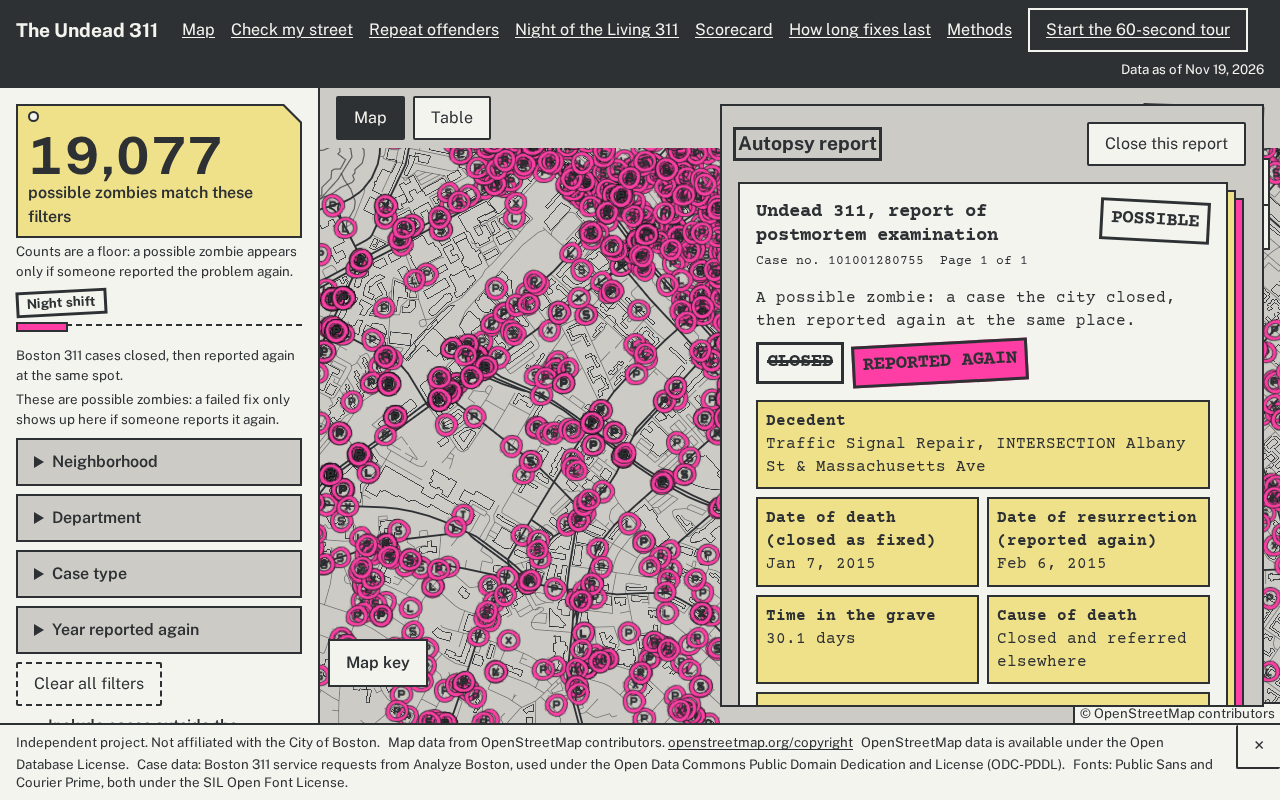
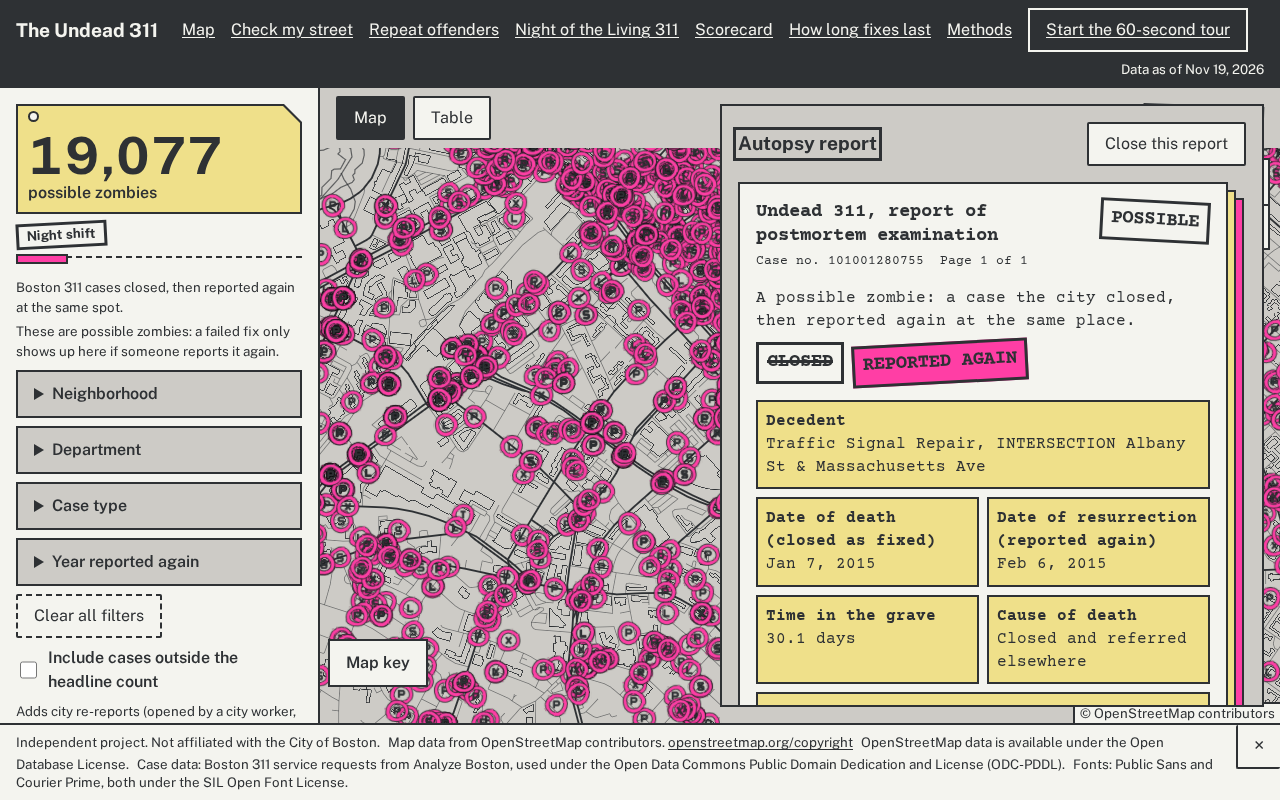
feat(web): pink only for zombies, count wording n of N, floor line off the map page
Kiro-Agent: web
Kiro-Run: manual

Changed region(s): [[0.0, 0.2188, 0.25, 0.9062]]

diff --git a/web/src/pages/HomePage.test.tsx b/web/src/pages/HomePage.test.tsx
@@ -48,7 +48,7 @@ describe("HomePage (REQ-WEB-MAP.2-4)", () => {
   it("shows headline zombies only by default, and the count matches the map set", async () => {
     stubFetch();
     render(<MemoryRouter><App /></MemoryRouter>);
-    expect(await screen.findByText(countText("3 possible zombies match these filters"))).toBeTruthy();
+    expect(await screen.findByText(countText("3 possible zombies"))).toBeTruthy();
     await waitFor(() => expect(screen.getByTestId("map").getAttribute("data-marker-count")).toBe("3"));
     expect(mapRows).toHaveBeenLastCalledWith(["a", "b", "c"]);
   });
@@ -57,10 +57,10 @@ describe("HomePage (REQ-WEB-MAP.2-4)", () => {
     stubFetch();
     const user = userEvent.setup();
     render(<MemoryRouter><App /></MemoryRouter>);
-    await screen.findByText(countText("3 possible zombies match these filters"));
+    await screen.findByText(countText("3 possible zombies"));
     await user.click(screen.getByText("Neighborhood"));
     await user.click(within(screen.getByRole("form", { name: "Filters" })).getByLabelText(/Roxbury/));
-    expect(await screen.findByText(countText("2 possible zombies match these filters"))).toBeTruthy();
+    expect(await screen.findByText(countText("2 of 3 match your filters"))).toBeTruthy();
     expect(mapRows).toHaveBeenLastCalledWith(["b", "c"]);
   });
 
@@ -78,7 +78,7 @@ describe("HomePage (REQ-WEB-MAP.2-4)", () => {
     stubFetch();
     const user = userEvent.setup();
     render(<MemoryRouter><App /></MemoryRouter>);
-    await screen.findByText(countText("3 possible zombies match these filters"));
+    await screen.findByText(countText("3 possible zombies"));
     await user.click(screen.getByText("Department"));
     expect(screen.getByText(/Public Works Department \(PWDx\)/)).toBeTruthy();
     expect(screen.getByText(/Boston Transportation Department \(BTDT\)/)).toBeTruthy();
@@ -96,7 +96,7 @@ describe("Sensitivity tier toggle (REQ-WEB-TIER.1-2)", () => {
   it("is off by default: no all-tier count, and the map has only headline rows", async () => {
     stubFetch();
     render(<MemoryRouter><App /></MemoryRouter>);
-    await screen.findByText(countText("3 possible zombies match these filters"));
+    await screen.findByText(countText("3 possible zombies"));
     expect((screen.getByLabelText("Include cases outside the headline count") as HTMLInputElement).checked).toBe(false);
     expect(screen.queryByTestId("count-all")).toBeNull();
     expect(mapRows).toHaveBeenLastCalledWith(["a", "b", "c"]);
@@ -105,10 +105,10 @@ describe("Sensitivity tier toggle (REQ-WEB-TIER.1-2)", () => {
     stubFetch();
     const user = userEvent.setup();
     render(<MemoryRouter><App /></MemoryRouter>);
-    await screen.findByText(countText("3 possible zombies match these filters"));
+    await screen.findByText(countText("3 possible zombies"));
     await user.click(screen.getByLabelText("Include cases outside the headline count"));
     expect(await screen.findByTestId("count-all")).toBeTruthy();
-    expect(screen.getByTestId("count").textContent).toBe("3 possible zombies match these filters");
+    expect(screen.getByTestId("count").textContent).toBe("3 possible zombies");
     expect(screen.getByTestId("count-all").textContent).toBe("4 when cases outside the headline are included");
     const [first, second] = [screen.getByTestId("count"), screen.getByTestId("count-all")];
     expect(first.compareDocumentPosition(second) & Node.DOCUMENT_POSITION_FOLLOWING).toBeTruthy();
@@ -122,11 +122,42 @@ describe("Sensitivity tier toggle (REQ-WEB-TIER.1-2)", () => {
   });
 });
 
+describe("The count line (REQ-WEB-MAP.2, design review 4)", () => {
+  it("with no filter on, says the count and does not say anything matches", async () => {
+    stubFetch();
+    render(<MemoryRouter><App /></MemoryRouter>);
+    await screen.findByText(countText("3 possible zombies"));
+    expect(screen.getByTestId("count").textContent).toBe("3 possible zombies");
+    expect(screen.getByTestId("count").textContent).not.toMatch(/match|filter/i);
+  });
+  it("with a filter on, says 'n of N match your filters', where N is the count with no filter", async () => {
+    stubFetch();
+    render(<MemoryRouter initialEntries={["/?n=Dorchester"]}><App /></MemoryRouter>);
+    expect(await screen.findByText(countText("1 of 3 match your filters"))).toBeTruthy();
+    expect(mapRows).toHaveBeenLastCalledWith(["a"]);
+  });
+  it("goes back to the plain count when the filter is cleared, and counts a filter that matches nothing as 0 of N", async () => {
+    stubFetch();
+    const user = userEvent.setup();
+    render(<MemoryRouter initialEntries={["/?n=Roxbury&y=2020"]}><App /></MemoryRouter>);
+    expect(await screen.findByText(countText("0 of 3 match your filters"))).toBeTruthy();
+    await user.click(screen.getByRole("button", { name: "Show filters" }));
+    await user.click(screen.getByRole("button", { name: "Clear all filters" }));
+    expect(await screen.findByText(countText("3 possible zombies"))).toBeTruthy();
+  });
+  it("no longer carries the 'counts are a floor' line on the map page (it stays on the methods page)", async () => {
+    stubFetch();
+    render(<MemoryRouter><App /></MemoryRouter>);
+    await screen.findByText(countText("3 possible zombies"));
+    expect(screen.queryByText(/Counts are a floor/)).toBeNull();
+  });
+});
+
 describe("Bulk-closure layer (REQ-WEB-DEATHS.1)", () => {
   it("is off by default: no zombie file is requested and nothing is ringed", async () => {
     stubFetch();
     render(<MemoryRouter><App /></MemoryRouter>);
-    await screen.findByText(countText("3 possible zombies match these filters"));
+    await screen.findByText(countText("3 possible zombies"));
     expect(screen.getByTestId("map").getAttribute("data-bulk-ids")).toBe("");
     expect((vi.mocked(fetch).mock.calls as unknown[][]).some((c) => String(c[0]).includes("/zombies/"))).toBe(false);
   });
@@ -134,7 +165,7 @@ describe("Bulk-closure layer (REQ-WEB-DEATHS.1)", () => {
     stubFetch();
     const user = userEvent.setup();
     render(<MemoryRouter><App /></MemoryRouter>);
-    await screen.findByText(countText("3 possible zombies match these filters"));
+    await screen.findByText(countText("3 possible zombies"));
     await user.click(screen.getByLabelText("Mark closures that were part of a bulk closure"));
     expect(await screen.findByText("2 of the possible zombies shown follow a bulk closure, ringed in orange.")).toBeTruthy();
     expect(screen.getByTestId("map").getAttribute("data-bulk-ids")).toBe("b,c");
@@ -143,7 +174,7 @@ describe("Bulk-closure layer (REQ-WEB-DEATHS.1)", () => {
     stubFetch([false, false, false, false]);
     const user = userEvent.setup();
     render(<MemoryRouter><App /></MemoryRouter>);
-    await screen.findByText(countText("3 possible zombies match these filters"));
+    await screen.findByText(countText("3 possible zombies"));
     await user.click(screen.getByLabelText("Mark closures that were part of a bulk closure"));
     expect(await screen.findByText("None of the possible zombies shown follow a bulk closure, so no rings are drawn.")).toBeTruthy();
     expect(screen.queryByText(/^0 of the possible zombies/)).toBeNull();
@@ -163,7 +194,7 @@ describe("Table view mirrors the map (REQ-WEB-TABLE.1)", () => {
   it("lists the same zombies the map got, and each row links to its card", async () => {
     stubFetch();
     render(<MemoryRouter initialEntries={["/?view=table&n=Roxbury"]}><App /></MemoryRouter>);
-    await screen.findByText(countText("2 possible zombies match these filters"));
+    await screen.findByText(countText("2 of 3 match your filters"));
     const table = await screen.findByTestId("zombie-table");
     const ids = within(table).getAllByRole("row").slice(1).map((r) => r.getAttribute("data-id"));
     expect(ids.sort()).toEqual(["b", "c"]);

diff --git a/web/src/pages/HomePage.tsx b/web/src/pages/HomePage.tsx
@@ -6,7 +6,7 @@ import { Filters } from "../components/Filters";
 import { CopyLink, NeighborhoodShareLink } from "../components/ShareLinks";
 import { PanelError } from "../components/PanelError";
 import { ZombieTable } from "../components/ZombieTable";
-import { visibleSet } from "../lib/filter";
+import { EMPTY_FILTERS, visibleSet, type Filters as FilterState } from "../lib/filter";
 import { shardKey } from "../lib/shard";
 import { useZombieShards, usePoints } from "../lib/shards";
 import { pointsToRows } from "../lib/points";
@@ -14,6 +14,9 @@ import { buildTableRows, bulkIds } from "../lib/table";
 import { t } from "../lib/t";
 import { useNarrow } from "../lib/useNarrow";
 import { decodeState, encodeState, type PageState } from "../lib/url";
+
+/** True when any of the four filters has a choice in it. */
+const anyFilter = (f: FilterState): boolean => f.neighborhoods.length + f.departments.length + f.families.length + f.years.length > 0;
 
 const MapView = lazy(() => import("../map/MapView"));
 
@@ -28,6 +31,9 @@ export default function HomePage() {
   const points = pointsState.load;
   const rows = useMemo(() => (points.status === "ok" ? pointsToRows(points.data) : []), [points]);
   const visible = useMemo(() => visibleSet(rows, state.filters, state.tierMode), [rows, state]);
+  // "n of N match your filters": N is the headline count with no filter on (the tier mode never changes the headline count)
+  const total = useMemo(() => visibleSet(rows, EMPTY_FILTERS, state.tierMode).headlineCount, [rows, state.tierMode]);
+  const filtered = anyFilter(state.filters);
   // zombie records load per shard, and only the shards the visible rows fall in (table view, bulk layer)
   const shardKeys = useMemo(
     () => (state.view === "table" || state.bulk ? visible.items.map((r) => shardKey(r.neighborhood, r.year)) : null),
@@ -87,7 +93,7 @@ export default function HomePage() {
         {points.status === "loading" && <p>{t("filters.loading")}</p>}
         {points.status === "ok" && (
           <>
-            <CountLine headlineCount={visible.headlineCount} allCount={state.tierMode === "all" ? visible.allCount : undefined} />
+            <CountLine headlineCount={visible.headlineCount} allCount={state.tierMode === "all" ? visible.allCount : undefined} filtered={filtered} totalCount={total} />
             <p className="stamp-night" aria-hidden="true">
               {t("theme.night_shift")}
             </p>

diff --git a/web/src/styles/app.css b/web/src/styles/app.css
@@ -747,12 +747,12 @@ select {
 
 /*
  * Form pages (street, repeat, scorecard, durability, methods, judge). The plain pages are drawn as the same triplicate form as the
- * autopsy card: a Crew white sheet with the canary and pink copies behind it, a header band with the date plaque, and field strips in
+ * autopsy card: a Crew white sheet with the canary copy behind it, a header band with the date plaque, and field strips in
  * Canary copy. The typewriter face stays inside the autopsy form; these pages keep Public Sans. Under 640 px only the top copy shows.
  */
 .page.form-sheet {
   position: relative;
-  width: min(64rem, calc(100% - 2 * var(--space-3) - 14px));
+  width: min(64rem, calc(100% - 2 * var(--space-3) - 10px));
   max-width: none;
   margin: var(--space-4) auto var(--space-5);
   padding: var(--space-4);
@@ -761,10 +761,8 @@ select {
   font-size: 1.05rem;
   font-variant-numeric: tabular-nums;
 }
-.page.form-sheet::before,
-.page.form-sheet::after { content: ""; position: absolute; inset: -2px; border: 2px solid var(--asphalt); pointer-events: none; }
-.page.form-sheet::before { background: var(--canary-copy); transform: translate(7px, 7px); z-index: -1; }
-.page.form-sheet::after { background: var(--survey-pink); transform: translate(14px, 14px); z-index: -2; }
+/* One Canary copy behind the sheet. Pink means a zombie, so the plain pages carry none. */
+.page.form-sheet::before { content: ""; position: absolute; inset: -2px; border: 2px solid var(--asphalt); pointer-events: none; background: var(--canary-copy); transform: translate(8px, 8px); z-index: -1; }
 .form-sheet h2 { font-size: 1.4rem; font-weight: 800; }
 .form-sheet h3 { font-size: 1.15rem; font-weight: 700; }
 .form-sheet .count-note, .form-sheet .rate-interval-text, .form-sheet .rate-n { font-size: 0.875rem; }
@@ -801,7 +799,7 @@ select {
 
 @media (max-width: 640px) {
   .page.form-sheet { width: 100%; margin: 0 0 var(--space-4); padding: var(--space-3); border-width: 2px 0; }
-  .page.form-sheet::before, .page.form-sheet::after { display: none; }
+  .page.form-sheet::before { display: none; }
   .form-head h1 { font-size: 1.8rem; }
   .plaque { margin-right: 0; }
 }

diff --git a/web/src/components/CountLine.tsx b/web/src/components/CountLine.tsx
@@ -5,11 +5,19 @@ interface Props {
   headlineCount: number;
   /** All-tier count; given only while the sensitivity toggle is on, and always shown beside the headline count. */
   allCount?: number;
+  /** True when any filter is on. With no filter the line is just the count; with a filter it reads "n of N match your filters". */
+  filtered?: boolean;
+  /** The headline count with no filter applied: the N in "n of N". */
+  totalCount?: number;
 }
 
 /** The count of possible zombies that match the filters, in the same set the map and table show (REQ-WEB-MAP.2-3, REQ-WEB-TIER.2). */
-export function CountLine({ headlineCount, allCount }: Props) {
-  const line = headlineCount === 1 ? t("filters.count_headline_one") : t("filters.count_headline", { count: headlineCount });
+export function CountLine({ headlineCount, allCount, filtered = false, totalCount = headlineCount }: Props) {
+  const line = filtered
+    ? t("filters.count_filtered", { count: headlineCount, total: totalCount })
+    : headlineCount === 1
+      ? t("filters.count_headline_one")
+      : t("filters.count_headline", { count: headlineCount });
   // The number leads at display size; the words follow. textContent stays the one sentence the copy file holds.
   const lead = /^(\d[\d,.]*)(\s.*)$/s.exec(line);
   return (
@@ -29,7 +37,6 @@ export function CountLine({ headlineCount, allCount }: Props) {
           {t("filters.count_all_tiers", { count: allCount })}
         </p>
       ) : null}
-      <p className="count-note">{t("filters.count_floor")}</p>
     </div>
   );
 }

diff --git a/web/src/lib/share.ts b/web/src/lib/share.ts
@@ -98,10 +98,9 @@ h1{font-size:76px;line-height:1.05;margin:20px 0 0;max-width:1000px}
 .stamp.closed{text-decoration:line-through}
 .foot{font-size:24px;margin:0}
 .formline{font-family:"Courier Prime",monospace;font-weight:700;font-size:26px;margin:0 0 22px;padding-bottom:10px;border-bottom:5px solid ${PALETTE.asphalt};max-width:1000px}
-.copies{position:absolute;top:0;right:0;bottom:0;width:56px;background:${PALETTE.pink};border-left:5px solid ${PALETTE.asphalt}}
-.copies i{position:absolute;top:0;bottom:0;left:-33px;width:28px;background:${PALETTE.canary};border-left:5px solid ${PALETTE.asphalt}}`;
+.copies{position:absolute;top:0;right:0;bottom:0;width:48px;background:${PALETTE.canary};border-left:5px solid ${PALETTE.asphalt}}`;
 
-const page = (fonts: string, body: string): string => `<!doctype html><html lang="en"><head><meta charset="utf-8"><style>${css(fonts)}</style></head><body><div class="copies" aria-hidden="true"><i></i></div>${body}</body></html>`;
+const page = (fonts: string, body: string): string => `<!doctype html><html lang="en"><head><meta charset="utf-8"><style>${css(fonts)}</style></head><body><div class="copies" aria-hidden="true"></div>${body}</body></html>`;
 
 /** The 1200 by 630 page for one possible zombie. `fonts` is the @font-face CSS (file URLs when rendered at build time). */
 export function zombieShareHtml(d: ZombieShare, text: ShareText, fonts = ""): string {

diff --git a/web/src/styles/a11y.test.ts b/web/src/styles/a11y.test.ts
@@ -23,9 +23,9 @@ describe("contrast floor (REQ-WEB-A11Y.1, design-system.md contrast rules)", () 
     const stamp = rules.find((r) => r.sel === ".stamp") as { body: string };
     expect(stamp.body).toMatch(/font-size:\s*var\(--step-1\)/);
     expect(stamp.body).toMatch(/font-weight:\s*700/);
-    // no other rule puts a pink background behind text. The pink copy behind a form sheet and the short pink line in the sidebar are
-    // empty pseudo-elements (no text sits on them): the same triplicate-form layer as .autopsy::after.
-    expect(rules.filter((r) => /background:\s*var\(--survey-pink\)/.test(r.body)).map((r) => r.sel).sort()).toEqual([".autopsy::after", ".hero-text::before", ".page.form-sheet::after", ".stamp-again"]);
+    // no other rule puts a pink background behind text. Pink means a zombie: the card's pink copy and the short pink line under the
+    // count (an empty pseudo-element, no text on it) are the only pink surfaces besides the stamp.
+    expect(rules.filter((r) => /background:\s*var\(--survey-pink\)/.test(r.body)).map((r) => r.sel).sort()).toEqual([".autopsy::after", ".hero-text::before", ".stamp-again"]);
   });
   it("orange is never a text surface; the bulk warning keeps Asphalt text on Crew white", () => {
     const orangeBg = rules.filter((r) => /background:\s*var\(--cone-orange\)/.test(r.body));

diff --git a/docs/DESIGN_REVIEW.md b/docs/DESIGN_REVIEW.md
@@ -172,9 +172,9 @@ Owner instructions for PR #43 chose direction A with the C touches (not B) and a
 - **Long pages (suggestion 6).** `/street` and `/repeat` show 25 rows, then "Show 25 more". The rows shown are the `n` parameter in the address; `/repeat` also keeps the sort in `sort` and `dir` (sorting starts again at the first page). Document height at first load on snap-1120: `/street` result 2,251 px (was 19,997), `/repeat` 2,789 px (was 36,535); at 390 px 2,869 px (was 28,133) and 3,493 px (was 64,304). The repeat map still draws every chain.
 - **Table view cells.** The empty "Time in the grave" and "Confidence" cells were not a data bug: the table lists every possible zombie, and those two cells come from the per-neighborhood zombie files, which the page fetches after the points (about 200 requests on snap-1120). Until they arrive the cells were blank. Now they show a dash and a status line says the values are loading, and a row with no value after loading says "Not available". Row links read "Open card for Signs in Roxbury, reported again 2026-11-19" instead of an id.
 - **Durability (suggestion 8).** The half-life column is left out while every row is the same, with one sentence under the table. The reporting-intensity column is left out while no group has a value. The 9 groups under 30 cases sit behind "Show 9 groups with fewer than 30 cases". The funnel limits draw on a fixed grid of 48 sizes on the log axis; which groups are called unusual still reads the file's own limits. A note says what "Against chance" and "raw" mean.
-- **Form look (suggestions 10, 11, 12).** Street, repeat, scorecard, durability, methods, judge and the 404 page are a Crew white sheet with the canary and pink copies behind it, a header band with the date plaque (the time-lapse's rubber stamp, "Records through <date>"), Canary field strips on the scorecard rows, controls on Concrete and one Asphalt primary button. The page title is 2.25 rem at weight 800, body 1.05 rem, with tabular figures. Public Sans only: the typewriter face stays inside the autopsy form.
+- **Form look (suggestions 10, 11, 12).** Street, repeat, scorecard, durability, methods, judge and the 404 page are a Crew white sheet with one canary copy behind it, a header band with the date plaque (the time-lapse's rubber stamp, "Records through <date>"), Canary field strips on the scorecard rows, controls on Concrete and one Asphalt primary button. The page title is 2.25 rem at weight 800, body 1.05 rem, with tabular figures. Public Sans only: the typewriter face stays inside the autopsy form.
 - **Night of the Living 311.** A dark basemap on that page only: Asphalt land, Concrete streets at a weight that follows road rank, a lighter wash for water. The main map and every other map keep the day style.
-- **Frame touches.** A 404 page ("This page stayed buried"), loading wording ("Digging up the map"), a spray-stencil favicon drawn from the map's own seeded marker, and share images with the form header line and the canary and pink copy edge. Values, the methods page text and the scorecard figures are unchanged.
+- **Frame touches.** A 404 page ("This page stayed buried"), loading wording ("Digging up the map"), a spray-stencil favicon drawn from the map's own seeded marker, and share images with the form header line and a canary copy edge. Values, the methods page text and the scorecard figures are unchanged.
 - **Evidence card.** A mock postmortem report: fictional header with the re-report's case number and "Page 1 of 1", boxed fields (Decedent, Date of death, Date of resurrection, Time in the grave, Cause of death, Confidence, Findings), a location sketch with the distance, "Second opinion" with the top two objections and "Show more", the signature line and a stamp (POSSIBLE, or RECORD-CONFIRMED on a tour whose records confirm it). The provisional tour shows POSSIBLE.
 - **Rename.** "Marker key" is "Map key" everywhere, including the close label and the tests.
 - **Not built.** Suggestions 2 (one-line credits, the M version), 7, 9, 13, 14 and 15 are still proposals. Suggestion 12's slide-aside motion is not built.
@@ -184,3 +184,11 @@ Owner instructions for PR #43 chose direction A with the C touches (not B) and a
 reviewer-ux read the before and after screenshots (`docs/design-review/before-fresh/`, `docs/design-review/final/`) and gave 5 majors and 13 minors. Fixed: the durability chart's right margin and a "Scroll sideways" hint above every wide table on a phone; the location sketch now overlaps the two markers for a same-point pair; Confidence spans the card; the 404 page has no plaque; the title and plaque stack on a phone; the tour's card has no copies behind it inside the sheet; a full stop on the provisional tour notice; tighter sidebar spacing so "Clear all filters" shows at 800 px; new captures (full pages with "Show 25 more", a card with four objections before and after "Show more", the whole card to its foot, the table view after loading).
 
 Left as they are, for the owner: the pink line under the count and the pink copy behind the form pages (both requested, both go beyond "pink is never decorative" in `design-system.md`); the dark time-lapse map (requested, against the banned dark basemap); the REPORTED AGAIN stamp (Asphalt on pink at 1.2 rem bold, the existing stamp); the street page's result button (existing behavior); one-line credits on phones (suggestion 2, not asked for).
+
+
+### Owner decisions on the follow-up (2026-11-22)
+
+- Pink means a zombie. The dark night-shift map stays on Night of the Living 311 only, and the short pink line under the count stays. The pink copy behind the plain form pages and in the share-image edge is removed (those pages and images keep one canary copy); the evidence card keeps its own pink copy because it is a zombie's report.
+- The 404, loading and empty-state wording is approved as written.
+- The "Counts are a floor" line is gone from the map page. The point stays on the methods page, in the limits section ("Counts are a floor: a possible zombie appears only when someone reports the problem again.").
+- The count reads "N possible zombies" with no filter on, and "n of N match your filters" with any filter on, where N is the count with no filter.

diff --git a/docs/KIRO_LOG.md b/docs/KIRO_LOG.md
@@ -110,3 +110,4 @@ Format: `YYYY-MM-DD | surface | feature | what was built/fixed | issue + fix`
 2026-11-21 | Web | records-check script + tests (PBT), judging-final --source, schema and web changes, no workflow | Field validation replaced by a records-based check of the 50-site sample: how each re-report was closed (Coroner label + text), repaired-again share with Wilson interval overall and by type, ambiguous cases listed apart; judge tour can be record-confirmed (judge_tour.json confirmation, labeled on the site); methods page and docs updated | Raw files had to be re-downloaded (no local data), so closures are as of 2026-11-21, 0 of 50 changed since the snapshot; classification rules were written before reading the closures and left unchanged afterwards. The staff-name list is not available outside the full run, so notes were scrubbed by pattern only and shown only when 5 or more cases share them.
 2026-11-22 | Web | agent (reviewer-ux), Playwright | Design review of eight pages at 1280 and 390 px on the snap-1120 exports; docs/DESIGN_REVIEW.md with 15 ranked suggestions, three direction mocks, and four small changes on design/proposals (count separators, compact credits, boxed tour link, basemap tint) | A kiro-log hook wrote a wrong "673 files changed" line while the snap-1120 data was copied in for screenshots; reverted it and restored web/public/data before committing. reviewer-ux could not start a preview server and reviewed from the screenshots only
 2026-11-22 | Web | agent (reviewer-ux), Playwright, PBT | Built the owner's design instructions on design/proposals: home direction A with the C touches, 25-row paging on /street and /repeat with state in the address, form-sheet look with a date plaque on the plain pages, evidence card as a mock postmortem report, night map for the time-lapse, 404 page, favicon, share images, Map key rename, durability cleanup | Table cells read as empty only because ~200 zombie files were still loading (not a data bug): added a loading line. My sed for the Map key rename and first card screenshots were wrong or clipped and reviewer-ux flagged them; fixed and re-shot. e2e wrote tracked docs/screenshots files each run; reverted before committing
+2026-11-22 | Web | PBT, Playwright | Owner changes on PR #43: pink only for zombies (form-page and share-image pink copies removed), count line reads 'N possible zombies' or 'n of N match your filters', floor line removed from the map page (stays on methods), tests for both count cases | Second-opinion change held: only 67 of 52,246 zombies (46 of 19,077 headline) have a Skeptic objection, so asked the owner before hiding the section
